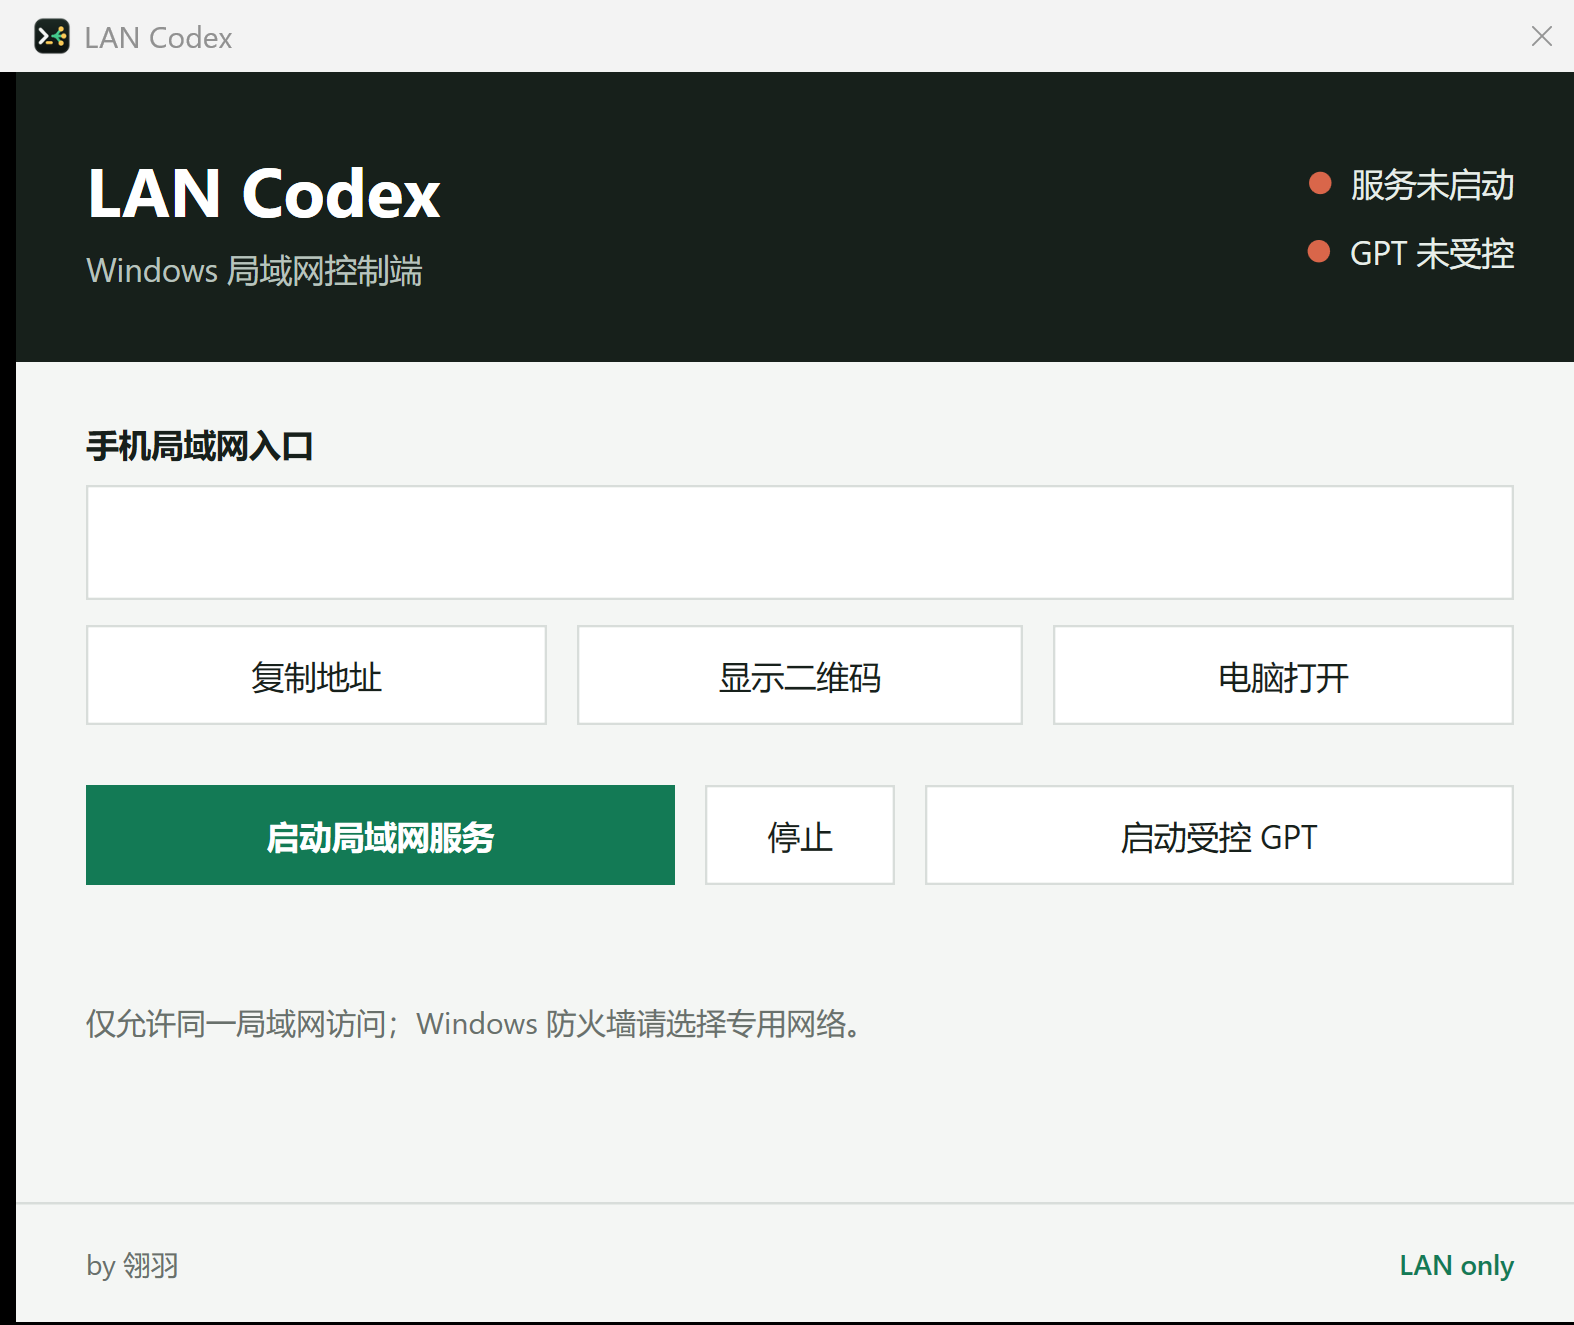
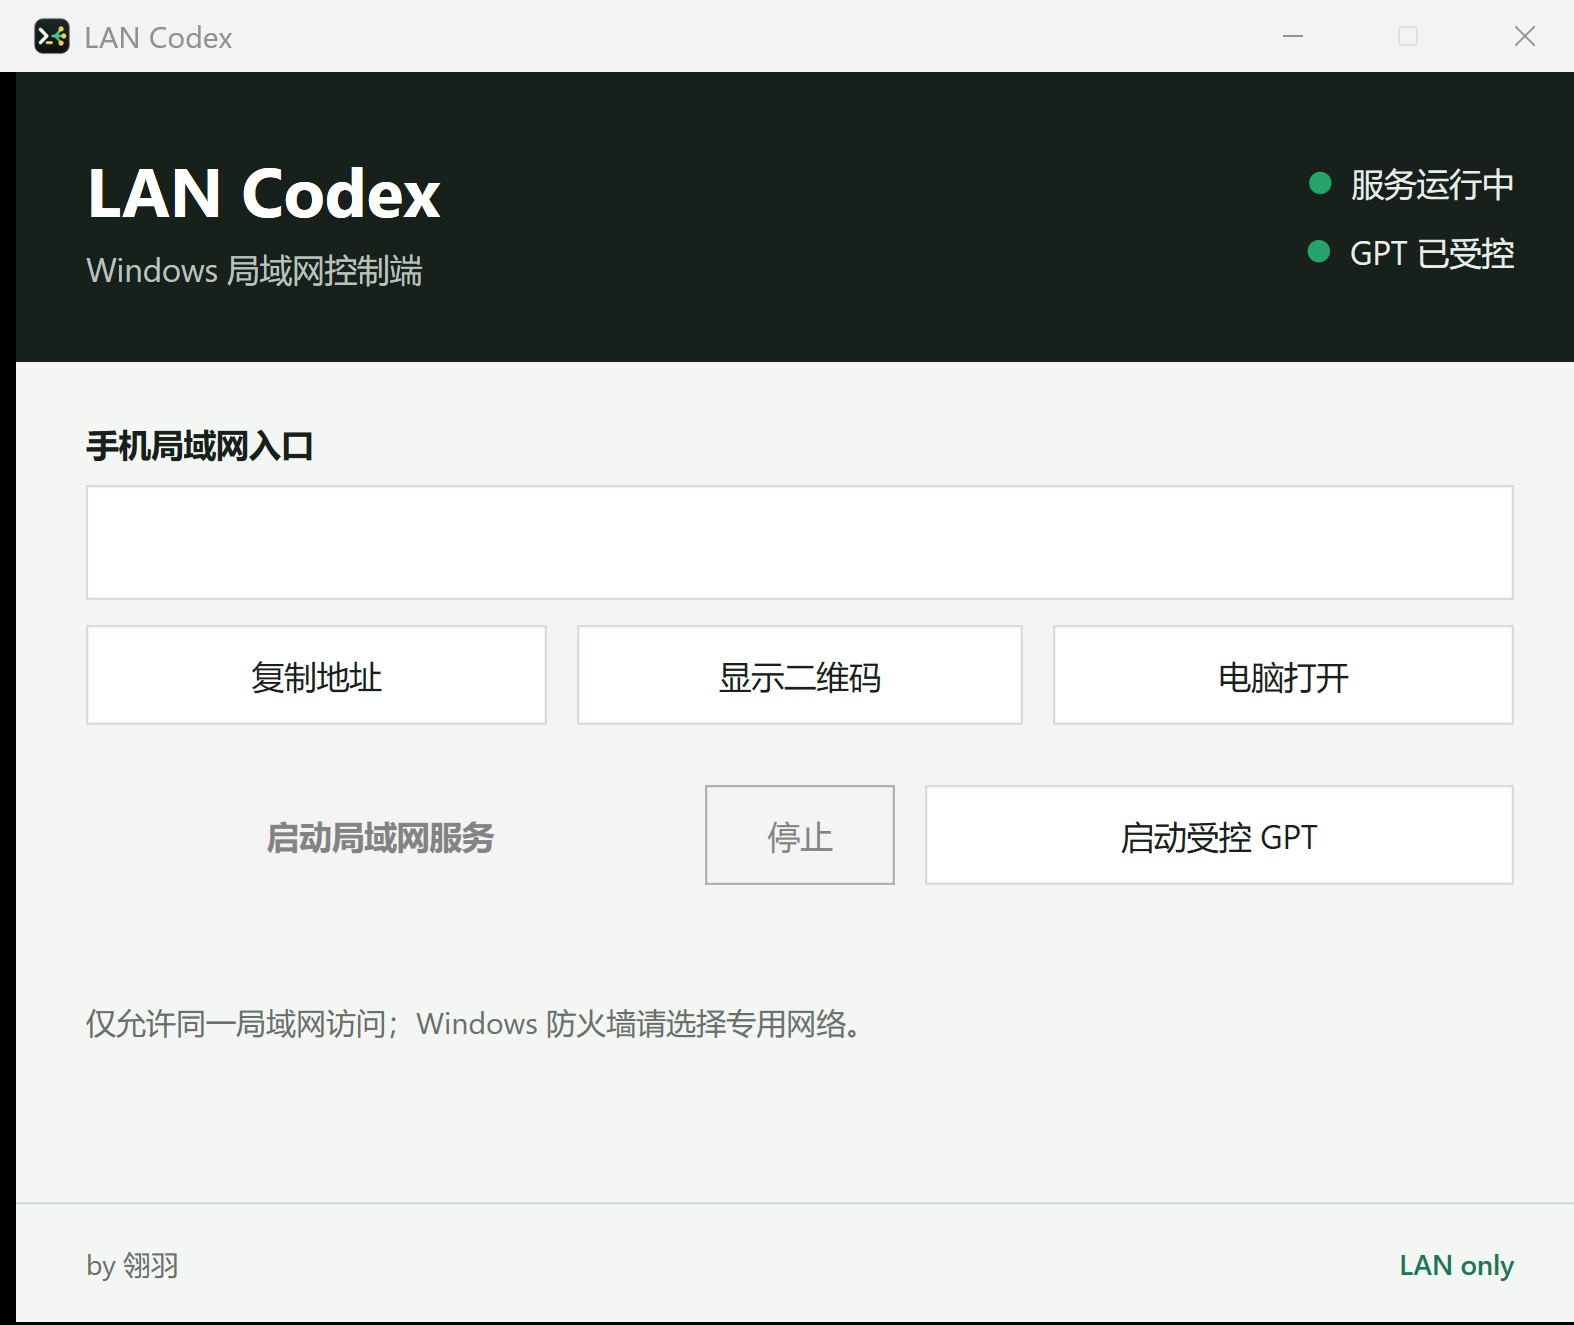
Add minimize support to Windows control panel

diff --git a/windows/LanCodexLauncher.cs b/windows/LanCodexLauncher.cs
@@ -9,8 +9,8 @@ using System.Windows.Forms;
 [assembly: AssemblyCompany("\u7FCE\u7FBD")]
 [assembly: AssemblyProduct("LAN Codex")]
 [assembly: AssemblyCopyright("Copyright (c) 2026 \u7FCE\u7FBD")]
-[assembly: AssemblyVersion("1.0.2.0")]
-[assembly: AssemblyFileVersion("1.0.2.0")]
+[assembly: AssemblyVersion("1.0.3.0")]
+[assembly: AssemblyFileVersion("1.0.3.0")]
 
 internal static class Program
 {

diff --git a/README.md b/README.md
@@ -16,7 +16,7 @@
 
 ## 下载
 
-- Windows 电脑：[下载 LAN Codex 安装包](https://github.com/Yi-Lings/LAN-Codex/releases/download/v1.0.2/LAN-Codex-Setup-1.0.2.exe)
+- Windows 电脑：[下载 LAN Codex 安装包](https://github.com/Yi-Lings/LAN-Codex/releases/download/v1.0.3/LAN-Codex-Setup-1.0.3.exe)
 - Android 手机：[下载 Lan-gpt.apk](https://github.com/Yi-Lings/LAN-Codex/releases/latest/download/Lan-gpt.apk)
 - 查看全部版本：[GitHub Releases](https://github.com/Yi-Lings/LAN-Codex/releases)
 
@@ -28,7 +28,7 @@ Windows 安装包已带好运行环境，普通用户不需要另外安装 Node.
 
 ### 1. 安装并打开电脑端
 
-运行下载好的 `LAN-Codex-Setup-1.0.2.exe`，按提示完成安装，然后从桌面或开始菜单打开 **LAN Codex**。
+运行下载好的 `LAN-Codex-Setup-1.0.3.exe`，按提示完成安装，然后从桌面或开始菜单打开 **LAN Codex**。
 
 第一次启动时，如果 Windows 防火墙询问是否允许访问，请只勾选“专用网络”。
 
